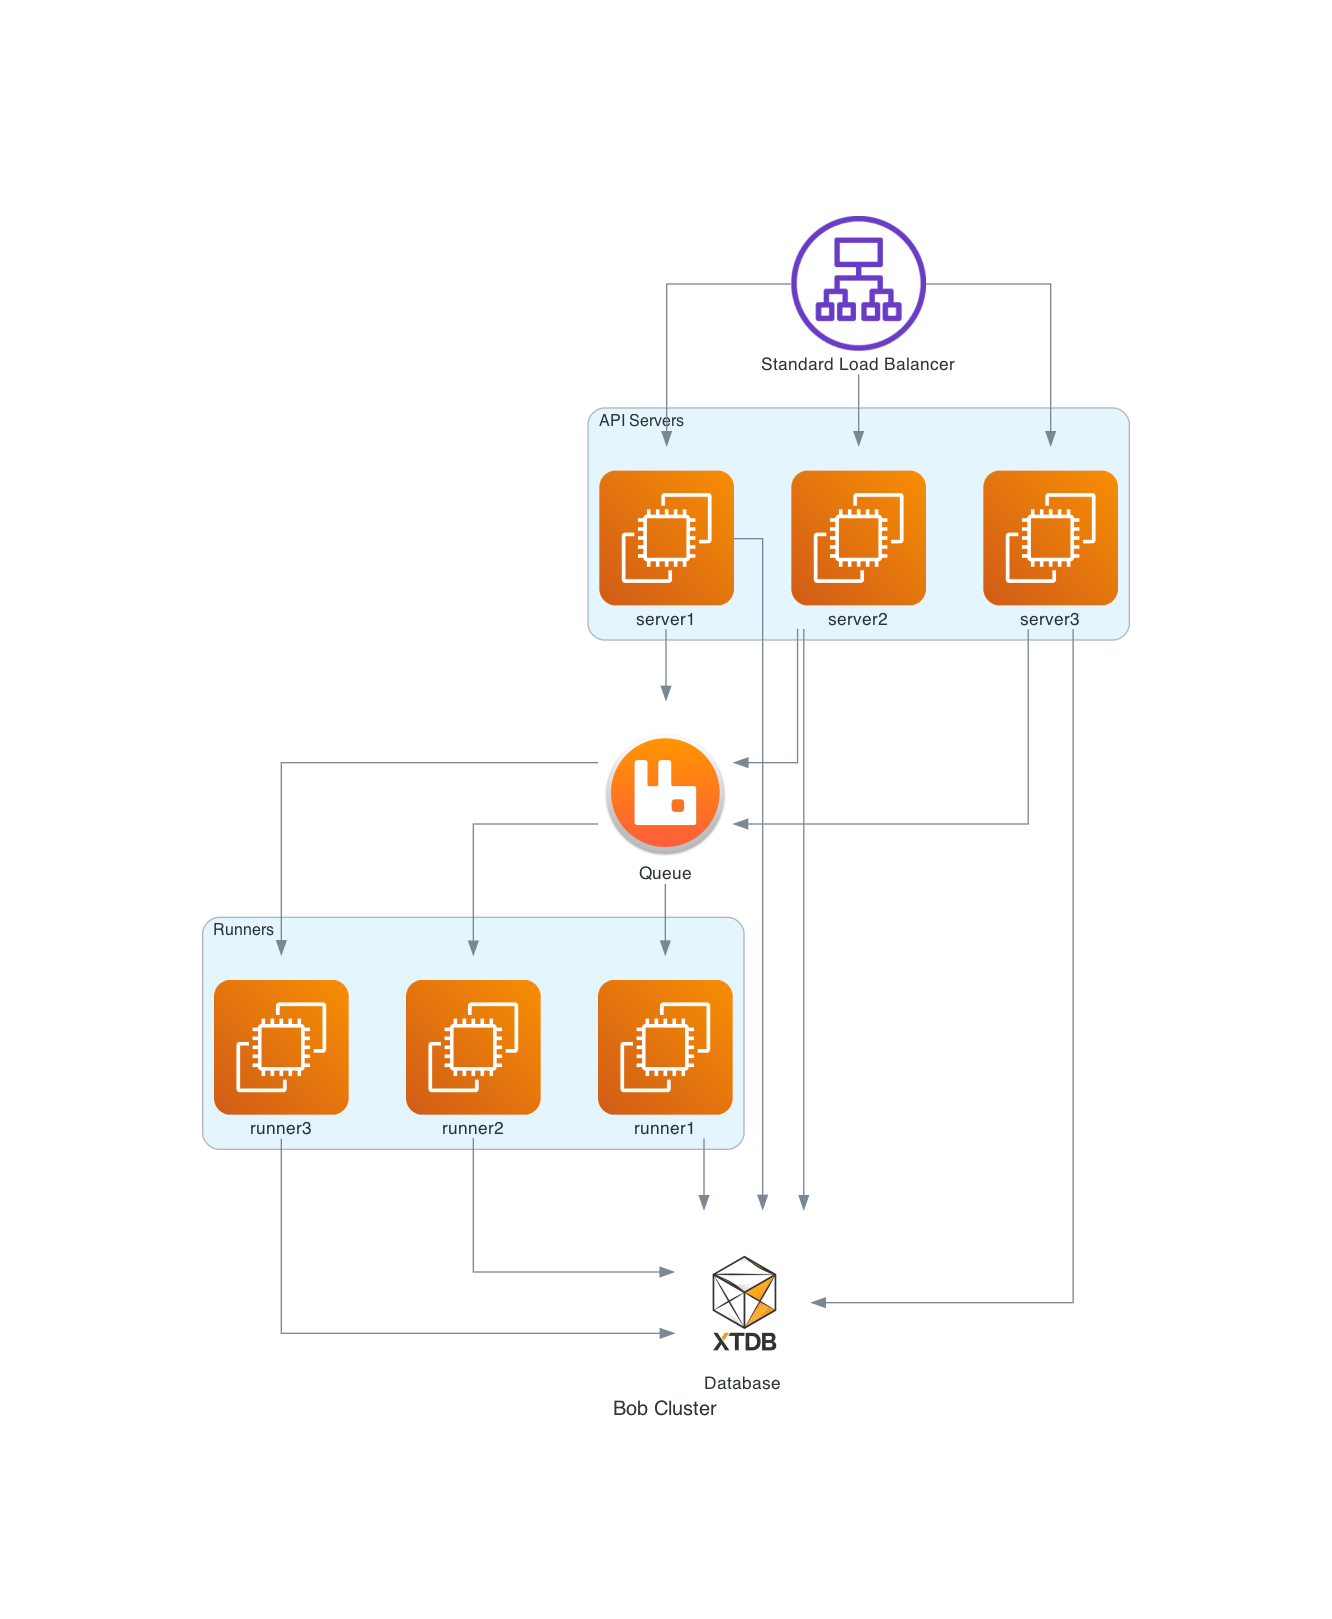
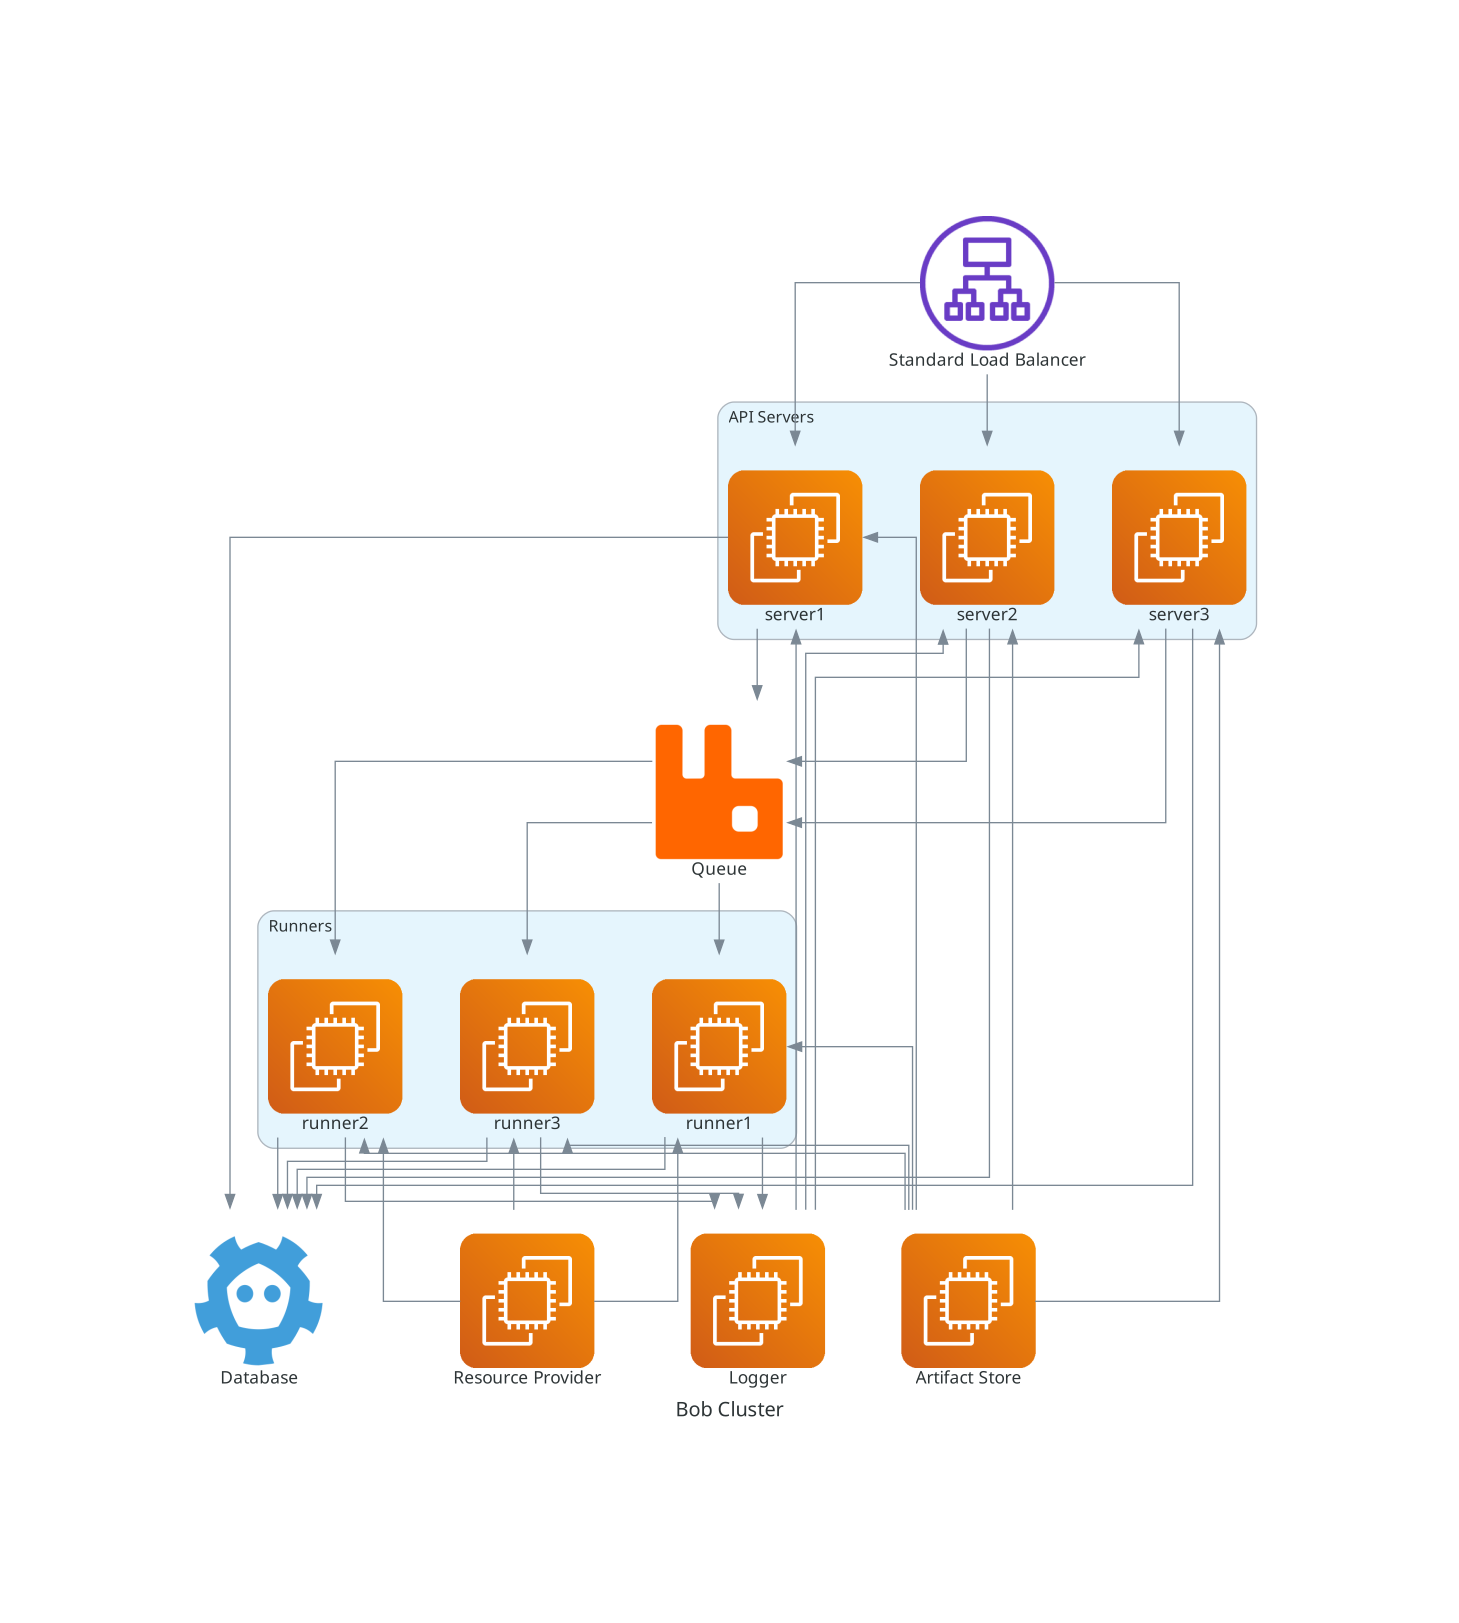
[cluster] XT -> etcd

Changed region(s): [[0.1231, 0.1235, 0.8619, 0.8956], [0.6772, 0.4941, 0.708, 0.525]]

diff --git a/diagrams/arch.py b/diagrams/arch.py
@@ -1,12 +1,17 @@
-from diagrams import Cluster, Diagram
 from diagrams.aws.compute import EC2
 from diagrams.aws.network import ALB
-from diagrams.custom import Custom
+from diagrams.onprem.network import ETCD
+from diagrams.onprem.queue import RabbitMQ
+
+from diagrams import Cluster, Diagram
 
 if __name__ == "__main__":
     with Diagram("Bob Cluster", show=False, direction="TB"):
-        rabbitmq = Custom("Queue", "rabbitmq.png")
-        db = Custom("Database", "xt.png")
+        rabbitmq = RabbitMQ("Queue")
+        db = ETCD("Database")
+        logger = EC2("Logger")
+        artifact_store = EC2("Artifact Store")
+        resource_provider = EC2("Resource Provider")
 
         with Cluster("API Servers"):
             api_servers = [EC2("server1"), EC2("server2"), EC2("server3")]
@@ -17,3 +22,8 @@ if __name__ == "__main__":
         ALB("Standard Load Balancer") >> api_servers >> rabbitmq >> runners
         api_servers >> db
         runners >> db
+        runners >> logger
+        api_servers << logger
+        api_servers << artifact_store
+        runners << resource_provider
+        runners << artifact_store

diff --git a/docs/architechture.md b/docs/architechture.md
@@ -13,7 +13,7 @@ The following are the tenets of Bob's design:
 Bob follows the UNIX [Philosophy](https://en.wikipedia.org/wiki/Unix_philosophy) of being small, robust and do one thing and do it well.
 Unlike most of the popular CI tooling, Bob tries to be a collection of small components which does one thing really well and allows you to compose them in the way you want and build your CI platform.
 
-The core of the project lives in this [repository](https://github.com/bob-cd/bob). Its entirely written in [Clojure](https://clojure.org/), which allows Bob to be really small, scale easily and handle concurrency well. It uses [XTDB](https://xtdb.com/) as its temporal, document database.
+The core of the project lives in this [repository](https://github.com/bob-cd/bob). Its entirely written in [Clojure](https://clojure.org/), which allows Bob to be really small, scale easily and handle concurrency well. It uses [etcd](https://etcd.io) as its persistent data store.
 
 All of the internals is exposed via a standard [REST API](api.md).
 
